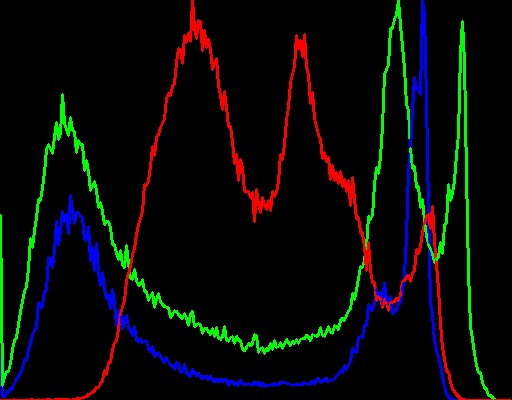
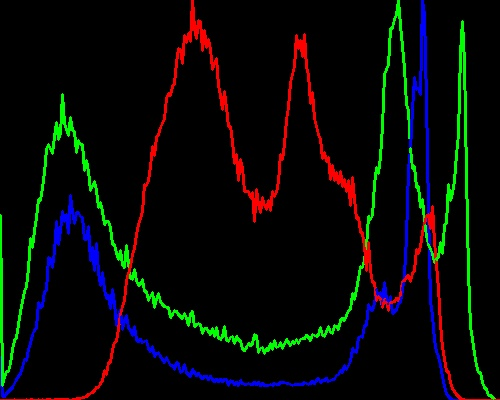
minor changes

Changed region(s): [[0.0, 0.0, 1.0, 1.0]]

diff --git a/Ex7.cpp b/Ex7.cpp
@@ -26,7 +26,7 @@ int main(int argc, char** argv) {
     calcHist(&rgb_planes[1], 1, 0, Mat(), greenHistogram, 1, &histogramSize, histogramRange, uniform, accumulate);
     calcHist(&rgb_planes[2], 1, 0, Mat(), redHistogram, 1, &histogramSize, histogramRange, uniform, accumulate);
     
-    int histogram_width = 512, histogram_height = 400;
+    int histogram_width = 500, histogram_height = 400;
     int bin_w = cvRound((double) histogram_width / histogramSize);
     
     Mat histogramImage(histogram_height, histogram_width, CV_8UC3, Scalar(0,0,0));
@@ -46,9 +46,6 @@ int main(int argc, char** argv) {
             Point(bin_w*(i), histogram_height - cvRound(redHistogram.at<float>(i))),
             Scalar(0, 0, 255), 2, 8, 0);
     }
-    
-    imshow("Histogram", histogramImage);
-    waitKey();
     
     cv::imwrite("image_histogram.jpg", histogramImage); 
 

diff --git a/Ex9.cpp b/Ex9.cpp
@@ -1,8 +1,4 @@
-#include <iostream>
-#include <vector>
-
 #include <opencv2/highgui/highgui.hpp>
-#include <opencv2/imgproc/imgproc.hpp>
 
 inline uchar reduceVal(const uchar val) {
     if (val < 64) 
